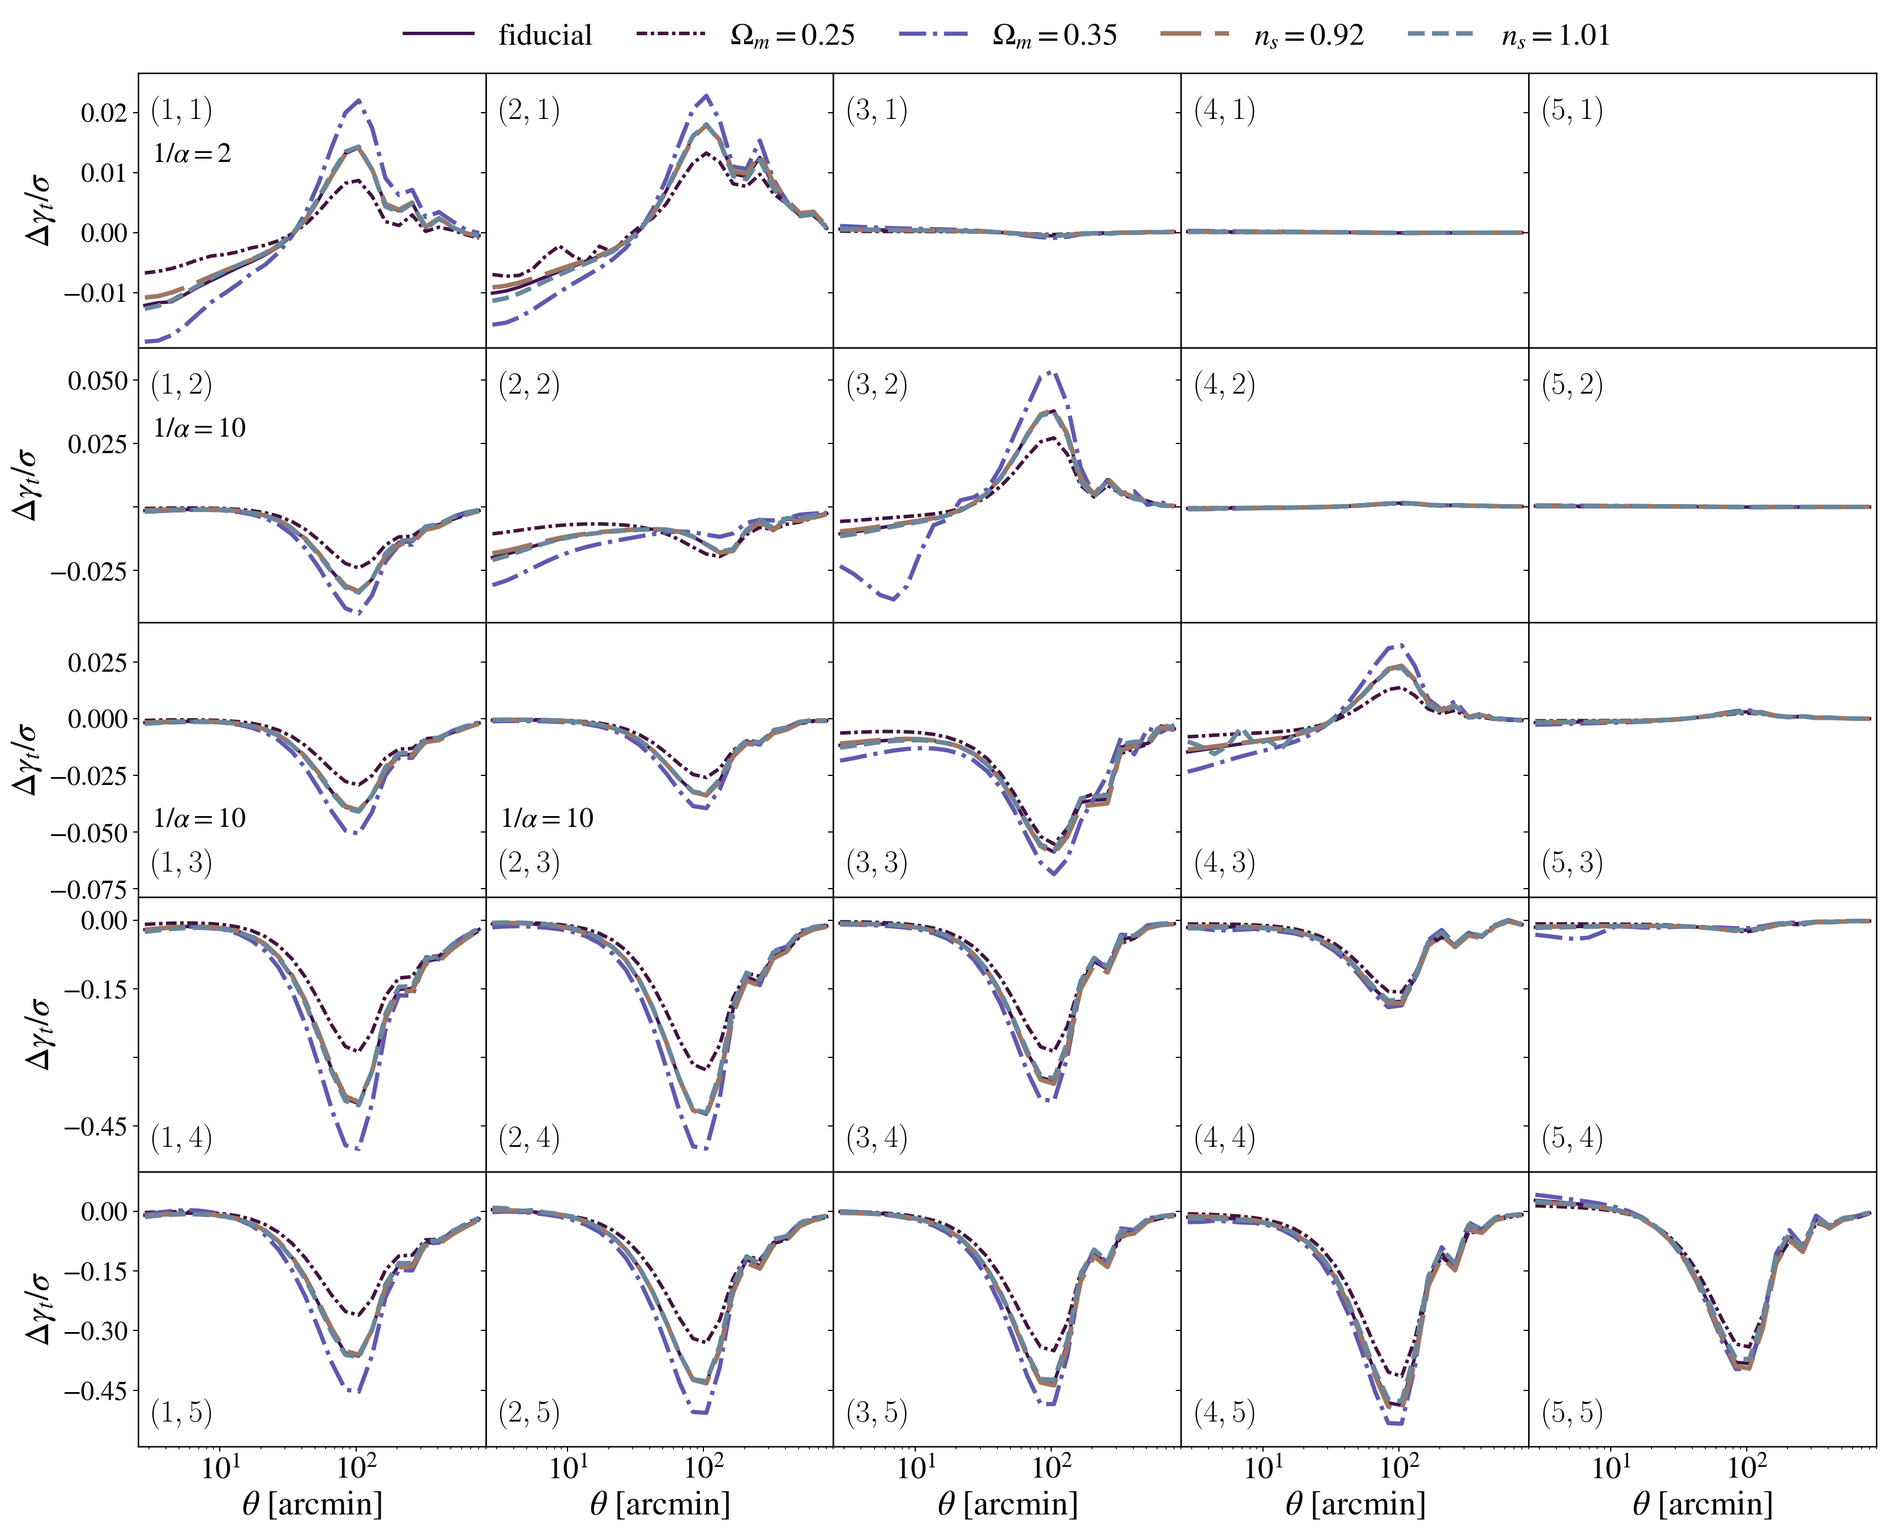
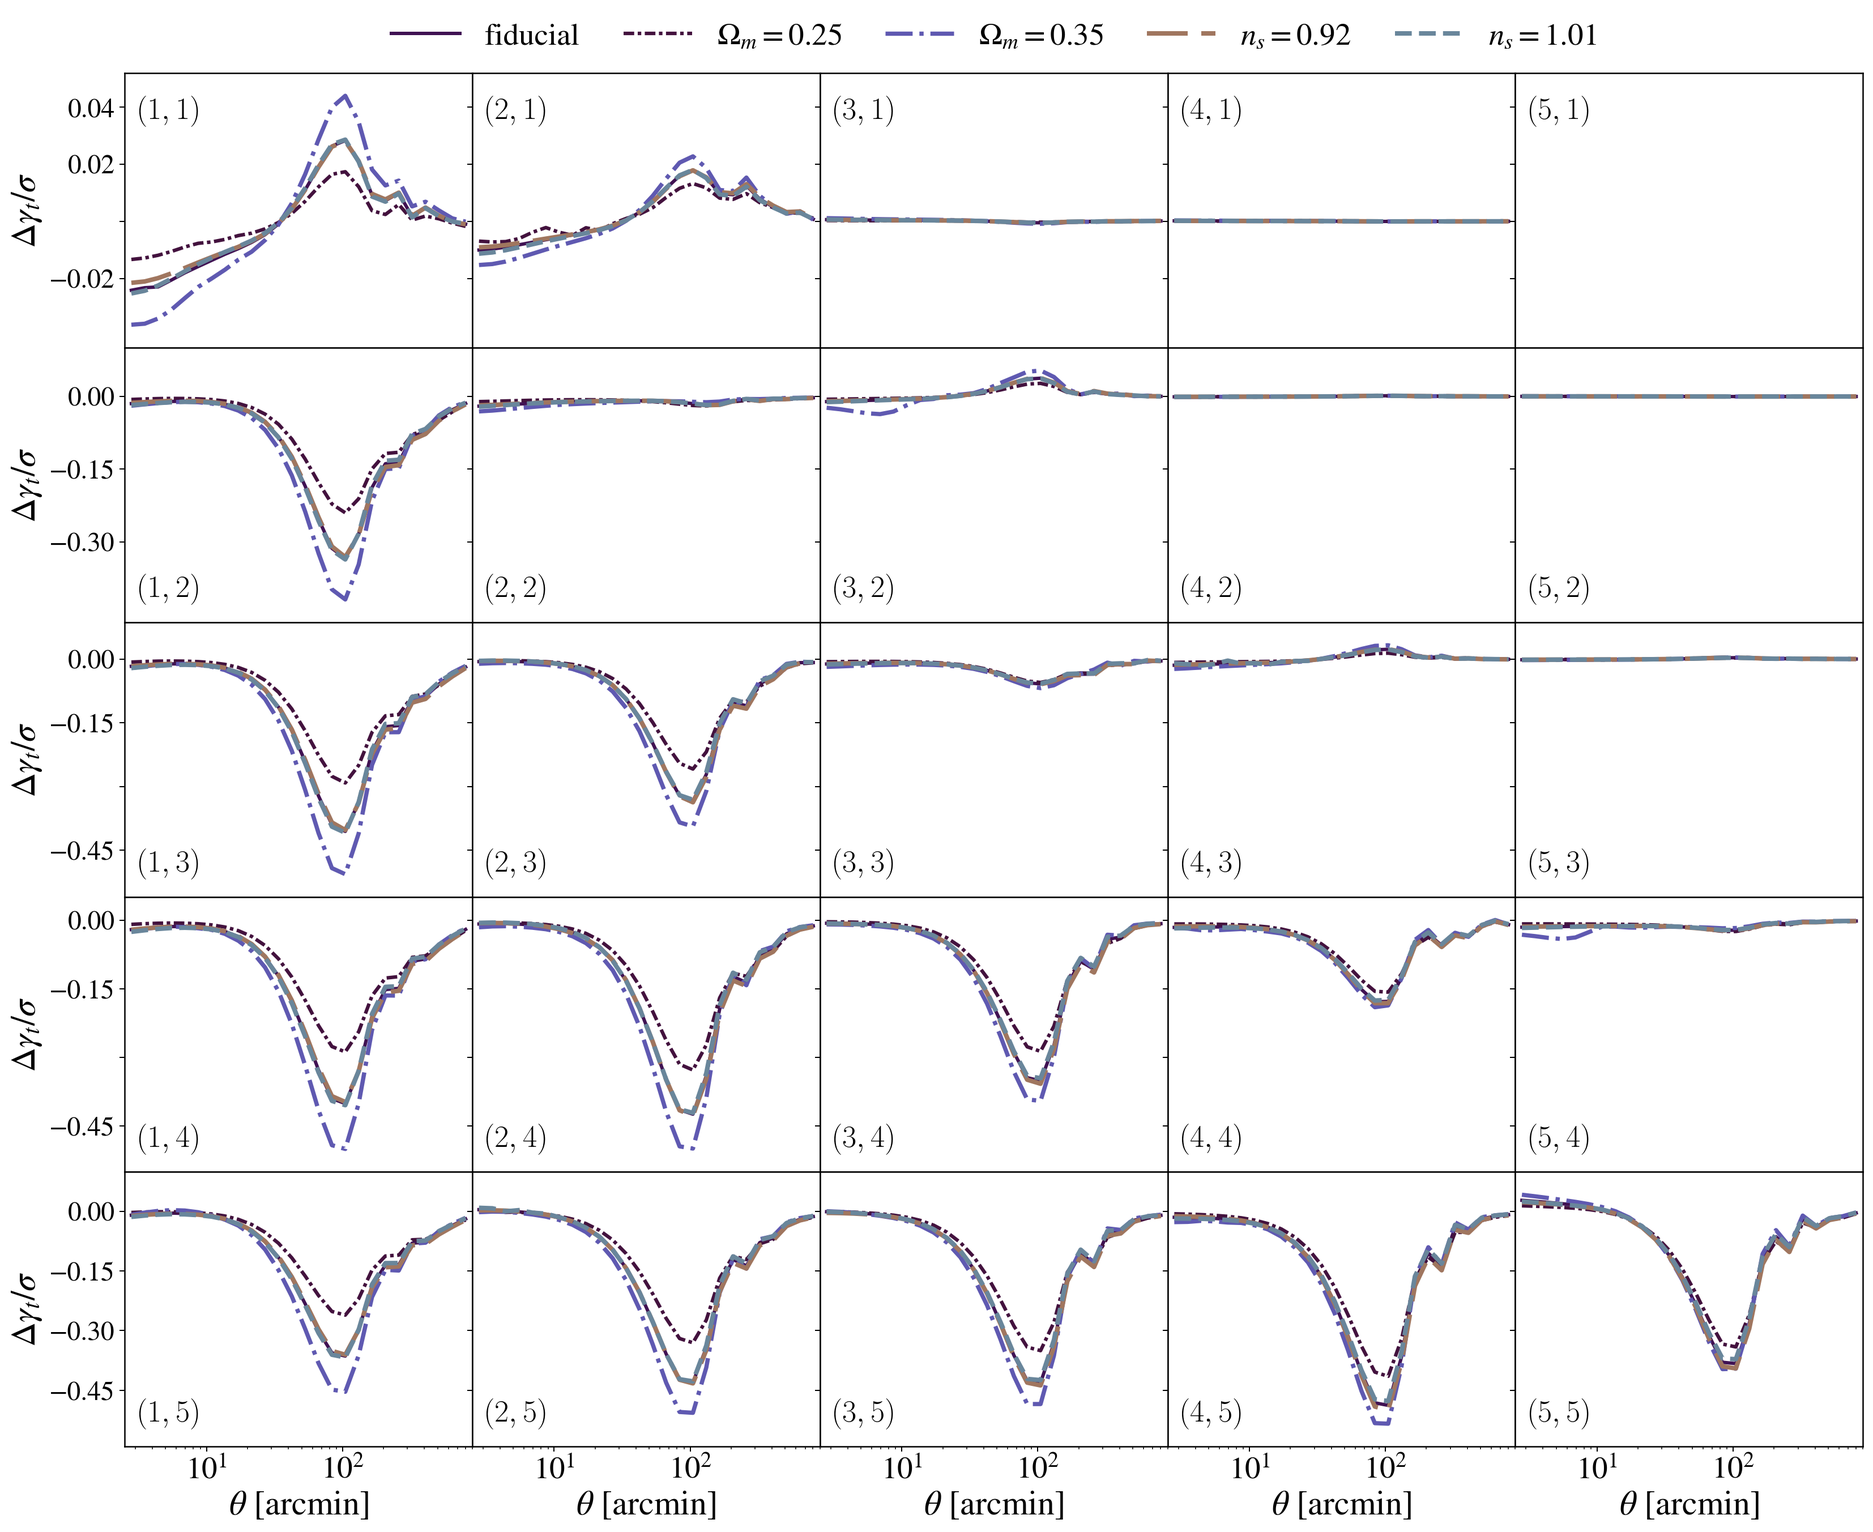
README study and figures: Fable review (writing and figures)
- contents list with anchors; reproduction as Step blocks with the
  assumptions and the run-folder facts
- figure captions: maxima over the five cosmologies and every plotted
  point (were fiducial-only); panel-label indexing stated; excluded
  panels explained
- summary bullets point to the findings; wording (CoCoA receives,
  cocoa_export.py / ccl_compute.py, data files read once per process)
- plots.py: the typical row spread ignores near-zero panels; no alpha on
  excluded pairs; y ticks kept 8% inside each row; prints each figure max

The physics review (part A) is still to be folded in.

diff --git a/cocoa_comparison/scripts/plots.py b/cocoa_comparison/scripts/plots.py
@@ -96,11 +96,14 @@ def row_ranges(R, rows):
   """One y-range per row of panels, fitted to the data (not symmetric):
   from the lowest to the highest value of the row's typical panels, 0
   included, 10% padding. Typical = the panels whose spread is within 2.5
-  times the row's median. Any panel that leaves its row's range gets
+  times the median spread of the panels holding at least 10% of the row's
+  largest. Any panel that leaves its row's range gets
   alpha = 1/f, f the first of the ladder that brings it inside.
   R: (ncurve, ntheta, n1, n2), 1 + (DESC-CCL - CoCoA)/sigma; rows: list of
   lists of (i, j)."""
   D = np.where(np.isfinite(R), R - 1.0, np.nan)
+  # a pair the project excludes arrives as zeros (unpack): no range, no alpha
+  D[:, :, np.all(R == 0, axis=(0, 1))] = np.nan
   with np.errstate(all="ignore"):
     lo_p, hi_p = np.nanmin(D, axis=(0, 1)), np.nanmax(D, axis=(0, 1))
   a = np.ones(lo_p.shape); lims = []
@@ -109,7 +112,11 @@ def row_ranges(R, rows):
     if not core:
       lims.append(None); continue
     spread = np.array([max(-lo_p[ij], hi_p[ij], 0.0) for ij in core])
-    keep = [ij for ij, x in zip(core, spread) if x <= 2.5*np.median(spread)] or core
+    # the typical spread: median over the panels with at least 10% of the
+    # row's largest (panels near zero, such as lens-behind-source gamma_t,
+    # do not set the range)
+    typical = np.median(spread[spread >= 0.1*spread.max()])
+    keep = [ij for ij, x in zip(core, spread) if x <= 2.5*typical] or core
     lo = min(0.0, min(lo_p[ij] for ij in keep)); hi = max(0.0, max(hi_p[ij] for ij in keep))
     if hi - lo <= 0: lo, hi = -0.1, 0.1
     pad = 0.10*(hi - lo); lo, hi = lo - pad, hi + pad
@@ -129,8 +136,13 @@ def set_rows(axrows, lims, ylabel):
   for axs, lim in zip(axrows, lims):
     axs[0].set_ylabel(ylabel, fontsize=24)
     if lim is None: continue
+    # ticks at least 8% inside the row's range, so the labels of adjacent
+    # (glued) rows never touch
+    span = lim[1] - lim[0]
+    ticks = [t for t in MaxNLocator(nbins=5).tick_values(lim[0], lim[1])
+             if lim[0] + 0.08*span <= t <= lim[1] - 0.08*span]
     for ax in axs:
-      ax.yaxis.set_major_locator(MaxNLocator(nbins=5, prune="both"))
+      ax.set_yticks(ticks)
       ax.tick_params(axis="y", labelsize=19)
       ax.tick_params(axis="x", labelsize=22)
       if ax.get_xlabel(): ax.set_xlabel(r"$\theta$ [arcmin]", fontsize=24)
@@ -202,7 +214,9 @@ def figures(p, curves, labels, tag):
   def prep(k, rows):
     R = np.array([u[k] for u in U])
     a, lims = row_ranges(R, rows)
-    print("  %s %s: 1/alpha != 1 in %d panels" % (p, "xip xim gammat w".split()[k], int((a != 1).sum())))
+    D = np.where(np.isfinite(R) & ~np.all(R == 0, axis=(0, 1))[None, None], np.abs(R - 1.0), np.nan)
+    print("  %s %s: max |Delta/sigma| %.3f; 1/alpha != 1 in %d panels"
+          % (p, "xip xim gammat w".split()[k], np.nanmax(D), int((a != 1).sum())))
     return [scaled(r, a) for r in R], a, lims
   for pm, nm, k in ((1, "xip", 0), (-1, "xim", 1)):
     rows = [[(i, j) for i in range(j + 1)] for j in range(S)]

diff --git a/README.md b/README.md
@@ -19,34 +19,36 @@ CoCoA `v5.02` and DESC-CCL compute the same real-space 3x2pt data vectors
 cosmologies. The differences are measured with each project's covariance.
 Scripts, tables and figures: [`cocoa_comparison/`](cocoa_comparison).
 
-## Summary
+Contents:
+1. [Summary](#ccl_summary)
+2. [Method](#ccl_method)
+3. [Results](#ccl_results)
+4. [Findings](#ccl_findings)
+5. [Figures](#ccl_figures)
+6. [What it took to run DESC-CCL](#ccl_run)
+7. [Reproduce](#ccl_reproduce)
+
+## Summary <a name="ccl_summary"></a>
 
 $\Delta\chi^2 = (d_{\rm CCL} - d_{\rm CoCoA})^{T} C^{-1} (d_{\rm CCL} - d_{\rm CoCoA})$,
 with the projects' masks (CoCoA's tests pass at $\Delta\chi^2 < 0.2$):
 
-| project | five cosmologies | fiducial: $\xi_\pm$ / $\gamma_t$ / $w(\theta)$ | after the diagnostic below |
+| project | five cosmologies | fiducial: $\xi_\pm$ / $\gamma_t$ / $w(\theta)$ | separable $P_{\rm lin}$ diagnostic |
 |---|---|---|---|
 | LSST-Y1 | 6.6 to 10.5 | 0.0013 / 7.29 / 6.26 | 0.21 |
 | Roman-Real | 0.17 to 0.29 | 0.058 / 0.27 / 0.096 | 0.062 |
 
-- Cosmic shear agrees in both projects. In LSST-Y1, $\Delta\chi^2 = 0.0013$.
-- $\gamma_t$ and $w(\theta)$ differ because of DESC-CCL's non-Limber method
-  (FKEM) when the linear growth depends on $k$. DESC-CCL subtracts a Limber
-  term computed with $P_{\rm lin}(k,z)$ and adds a non-Limber term computed
-  with $D^2(z)\,P_{\rm lin}(k,0)$; these do not cancel when $P_{\rm lin}(k,z)
-  \neq D^2(z)\,P_{\rm lin}(k,0)$. CoCoA `v5.02` uses $D^2(z)\,P_{\rm lin}(k,0)$
-  in both terms.
-- Diagnostic (not used in the figures): DESC-CCL given
-  $P_{\rm lin}(k,z) = D^2(z)\,P_{\rm lin}(k,0)$ agrees with CoCoA to
-  $\Delta\chi^2 = 0.21$ (LSST-Y1) and $0.062$ (Roman-Real).
+- Cosmic shear agrees in both projects.
+- $\gamma_t$ and $w(\theta)$ differ through DESC-CCL's non-Limber (FKEM)
+  term when the linear growth depends on $k$ ([finding 2](#ccl_findings)).
 - The modeling of this repository's DESC-CCL benchmark scripts differs from
-  CoCoA by $\Delta\chi^2 = 154$ (LSST-Y1) and $56$ (Roman-Real). RSD alone is
-  115 (LSST-Y1).
+  CoCoA by $\Delta\chi^2 = 154$ (LSST-Y1) and $56$ (Roman-Real)
+  ([finding 5](#ccl_findings)).
 
-## Method
+## Method <a name="ccl_method"></a>
 
 - **Same inputs.** DESC-CCL receives, through `pyccl.CosmologyCalculator`,
-  the tables cosmolike receives at the same point:
+  the tables CoCoA receives at the same point:
   - CAMB's linear and nonlinear $P(k,z)$ ($z \le 6$,
     $10^{-5} \le k \le 200\ {\rm Mpc}^{-1}$);
   - $\chi(z)$ and $H(z)$ (from $d\chi/dz$) to $z = 50$;
@@ -58,8 +60,7 @@ with the projects' masks (CoCoA's tests pass at $\Delta\chi^2 < 0.2$):
   No Boltzmann or background difference enters.
 - **DESC-CCL build.** pyccl from
   [LSSTDESC/CCL PR #1296](https://github.com/LSSTDESC/CCL/pull/1296) (commit
-  `647ad4a`). It provides full-sky $\xi_\pm$ and exact bin averaging;
-  CCL 3.3 refuses full-sky $\xi_\pm$ (error 1040).
+  `647ad4a`): full-sky $\xi_\pm$ and exact bin averaging.
 - **Layout.**
   - Bins: CoCoA's log $\theta$ bins (LSST-Y1: 26 bins from 2.5' to 900';
     Roman-Real: 15 bins from 2.5' to 250').
@@ -97,7 +98,7 @@ $\gamma_t$ lens tracer has it off to match CoCoA's model. Switching it on
 moves DESC-CCL's $\gamma_t$ by $\Delta\chi^2 = 0.36$ (LSST-Y1) and $0.076$
 (Roman-Real).
 
-## Results
+## Results <a name="ccl_results"></a>
 
 DESC-CCL (reference settings) vs CoCoA:
 
@@ -111,7 +112,8 @@ DESC-CCL (reference settings) vs CoCoA:
 
 Per-probe columns zero the other probes' entries of $d$; the cross-covariance
 makes them not add up to the 3x2pt value. In Roman-Real, the pair lens 7 -
-source 2 is left out (13 kept points; see failures below).
+source 2 (0-indexed) is left out: 13 points the mask keeps
+([finding 4](#ccl_findings)).
 
 Fiducial cosmology, one change at a time (3x2pt $\Delta\chi^2$):
 
@@ -150,7 +152,7 @@ largest):
 | Roman-Real | $C_{gs}$ | 3.0e-4 / 1.9e-3 | 3.6e-4 / 1.9e-3 | 3.3e-4 / 1.8e-3 |
 | Roman-Real | $C_{gg}$ | 9.3e-4 / 4.3e-3 | 4.2e-5 / 1.0e-3 | 2.7e-5 / 3.0e-3 |
 
-## Findings
+## Findings <a name="ccl_findings"></a>
 
 1. **Limber layer.** The codes agree in harmonic space (table above) and in
    real space with both codes in Limber ($\Delta\chi^2$ 0.16 and 0.031).
@@ -174,13 +176,15 @@ largest):
    while DESC-CCL mixes the two forms. Diagnostic: DESC-CCL given the
    separable table lowers the fiducial $\Delta\chi^2$ from 8.76 to 0.21
    (LSST-Y1, $\gamma_t$ 7.29 to 0.064, $w$ 6.26 to 0.16) and from 0.228 to
-   0.062 (Roman-Real). The non-Limber effect on LSST-Y1 $\gamma_t$ is 1.98
-   in CoCoA, 11.2 in DESC-CCL and 2.06 in DESC-CCL with the separable table.
+   0.062 (Roman-Real). The $\Delta\chi^2$ of the non-Limber effect on
+   LSST-Y1 $\gamma_t$ (non-Limber vs Limber in the same code) is 1.98 in
+   CoCoA, 11.2 in DESC-CCL and 2.06 in DESC-CCL with the separable table.
 3. **DESC-CCL numerics.** DESC-CCL's default FKEM sampling (`fkem_Nchi`
    default, 500 log $\ell$) is 0.34 from the converged run in LSST-Y1 (in
    $w(\theta)$) and 0.0005 in Roman-Real.
 4. **DESC-CCL transform failures.**
-   - The pairs: LSST-Y1 lens 4 - source 0 and Roman-Real lens 7 - source 2.
+   - The pairs (0-indexed): LSST-Y1 lens 4 - source 0 and Roman-Real lens
+     7 - source 2 (panel (8, 3) of the Roman-Real $\gamma_t$ figure).
      In both, the lens bin lies behind the source bin, so the Limber
      $C_{gs}$ is zero at every $\ell$. FKEM gives a nonzero $C_{gs}$ below
      $\ell = 150$, and the Limber part above is zero.
@@ -190,13 +194,13 @@ largest):
      $\ell_{\max}$ (`ccl_f1d_extrap_logx_logy` in `ccl_correlation.c`),
      which needs positive values at the end.
    - Both pairs are left out of the comparison. CoCoA's mask removes the
-     LSST-Y1 pair; 13 kept Roman-Real points are left out.
+     LSST-Y1 pair; in Roman-Real, 13 points the mask keeps are left out.
 5. **Modeling choices** (one-change table): RSD is 115 (LSST-Y1, in
    $w(\theta)$); $C_{gs}$ in Limber 9.2; values at bin centers instead of
    bin averages 10.3 (LSST-Y1) and 22.8 (Roman-Real, whose bins are wider:
    $\Delta\ln\theta = 0.31$ against 0.23).
 
-## Figures
+## Figures <a name="ccl_figures"></a>
 
 Each panel shows $(d_{\rm CCL} - d_{\rm CoCoA})/\sigma$ at the same
 cosmology, with $\sigma = \sqrt{C_{ii}}$ from the project's covariance: 1 is a
@@ -204,78 +208,102 @@ one-sigma difference. One curve per cosmology. Each row of panels has its own
 y-range. A panel marked $1/\alpha = f$ shows the difference divided by $f$:
 the difference is $f$ times what the axis reads. LSST-Y1 shows every
 $\theta$; the $\Delta\chi^2$ above uses the mask. Roman-Real leaves the
-masked points blank.
+masked points blank. Panel labels: $\gamma_t$ (lens, source) and
+$w(\theta)$ (lens) count from 1; $\xi_\pm$ (bin $i$, bin $j$) count from 0.
+The maxima below are over the five cosmologies and every plotted point.
 
 **LSST-Y1, $\gamma_t$.** DESC-CCL's FKEM offset from finding 2 reaches
-$-0.5\sigma$ near 100'. The same shape appears at every cosmology.
+$-0.53\sigma$ near 100'. The same shape appears at every cosmology.
 
 ![LSST-Y1 gamma_t](cocoa_comparison/figures/lsst_y1_cosmologies_gammat.png)
 
-**LSST-Y1, $w(\theta)$.** The same FKEM offset: $-0.5\sigma$ to $-1.3\sigma$
-per point below 100' (at most $0.84\sigma$ on the points the mask keeps).
+**LSST-Y1, $w(\theta)$.** The same FKEM offset: $-0.4\sigma$ to $-1.39\sigma$
+per point below 100' (at most $0.89\sigma$ on the points the mask keeps).
 
 ![LSST-Y1 w](cocoa_comparison/figures/lsst_y1_cosmologies_w.png)
 
-**LSST-Y1, $\xi_+$ and $\xi_-$.** At most $0.01\sigma$.
+**LSST-Y1, $\xi_+$ and $\xi_-$.** At most $0.014\sigma$ ($\xi_+$) and
+$0.010\sigma$ ($\xi_-$).
 
 ![LSST-Y1 xi+](cocoa_comparison/figures/lsst_y1_cosmologies_xip.png)
 ![LSST-Y1 xi-](cocoa_comparison/figures/lsst_y1_cosmologies_xim.png)
 
-**Roman-Real, $\gamma_t$.** At most $0.03\sigma$. Pair lens 8 - source 3
-(1-indexed) is blank: DESC-CCL's transform fails (finding 4).
+**Roman-Real, $\gamma_t$.** At most $0.045\sigma$. Panels marked
+"excluded" are CoCoA's $\gamma_t$ exclusions (Method, Layout); panel (8, 3)
+is blank because DESC-CCL's transform fails ([finding 4](#ccl_findings)).
 
 ![Roman-Real gamma_t](cocoa_comparison/figures/roman_real_cosmologies_gammat.png)
 
-**Roman-Real, $w(\theta)$.** At most $0.09\sigma$.
+**Roman-Real, $w(\theta)$.** At most $0.088\sigma$.
 
 ![Roman-Real w](cocoa_comparison/figures/roman_real_cosmologies_w.png)
 
-**Roman-Real, $\xi_+$ and $\xi_-$.** At most $0.04\sigma$.
+**Roman-Real, $\xi_+$ and $\xi_-$.** At most $0.050\sigma$ ($\xi_+$) and
+$0.059\sigma$ ($\xi_-$).
 
 ![Roman-Real xi+](cocoa_comparison/figures/roman_real_cosmologies_xip.png)
 ![Roman-Real xi-](cocoa_comparison/figures/roman_real_cosmologies_xim.png)
 
-## What it took to run DESC-CCL
+## What it took to run DESC-CCL <a name="ccl_run"></a>
 
 | symptom | cause | resolution |
 |---|---|---|
 | `CCLError` 1040 for full-sky $\xi_\pm$ | CCL 3.3 has no full-sky $\xi_\pm$ | pyccl built from PR #1296 (CMake against the conda env's GSL and FFTW; SWIG from conda-forge) |
 | `AttributeError: np.trapz` in FAST-PT 4.0.0 | numpy 2.4 removed `np.trapz` | `np.trapz = np.trapezoid` before importing pyccl (no package changed) |
-| `ccl_angular_cls_limber(): integration error`, Roman-Real lens bins 6 and 7 with RSD | the harness's growth table ended at $z = 6$ | growth from CAMB to $z = 49$ |
-| same error, lens bin 7, $\ell = 2$ only | the Limber RSD kernel evaluates the background at $\chi_{\ell+1} = \chi\,(\ell + 3/2)/(\ell + 1/2)$, $1.4\chi$ at $\ell = 2$ ($z \approx 14$ for $z = 4$); the harness's $\chi(z)$ table ended at $z = 10$ | CoCoA's $\chi(z)$ to $z = 50$ |
+| `ccl_angular_cls_limber(): integration error`, Roman-Real lens bins 6 and 7 with RSD | the growth table of `cocoa_export.py` ended at $z = 6$ | growth from CAMB to $z = 49$ |
+| same error, lens bin 7, $\ell = 2$ only | the Limber RSD kernel evaluates the background at $\chi_{\ell+1} = \chi\,(\ell + 3/2)/(\ell + 1/2)$, $1.4\chi$ at $\ell = 2$ ($z \approx 14$ for $z = 4$); `ccl_compute.py` cut CoCoA's $\chi(z)$ table at $z = 10$ | CoCoA's $\chi(z)$ to $z = 50$ |
 | $H(z)$ off by $3\times10^{-4}$ above $z = 3$ | `np.gradient` of $\chi(z)$ where the $z$ grid coarsens | cubic-spline derivative (agrees with CCL's own $H(z)$ to $10^{-5}$) |
 | Eisenstein-Hu cosmology needs $\sigma_8$ | the benchmark modeling uses DESC-CCL's own $P(k)$ | `ccl.sigma8` of the CAMB-table cosmology |
 | `correlation` fails for two $\gamma_t$ pairs | finding 4 | not worked around: pairs left out |
 
 CoCoA side:
-- `init_data_real` runs once per process, so the full vector (a scratch
-  dataset with `ones.mask`) and the masked covariance come from separate
-  runs;
+- cosmolike reads the data files once per process, so the full vector (a
+  scratch dataset with `ones.mask`) and the masked covariance come from
+  separate runs;
 - the Roman-Real covariance is not positive definite with every point, so
   Roman-Real uses its mask;
 - Cobaya returns $\chi(z)$ only at requested redshifts, so it is read on the
   likelihood's $z$ grid.
 
-## Reproduce
+## Reproduce <a name="ccl_reproduce"></a>
+
+We assume users run the commands from the CCL-benchmark root folder, have a
+Cocoa installation with the lsst_y1 and roman_real projects and their data,
+a conda environment `ccl` with pyccl's dependencies, and a pyccl build of
+[LSSTDESC/CCL PR #1296](https://github.com/LSSTDESC/CCL/pull/1296) (the
+folder that contains its `pyccl` package). `<run folder>` is the same path in
+every step.
+
+**Step :one:**: Export CoCoA's data vectors, tables and covariances (Conda
+cocoa environment, from the `Cocoa/` folder: `source start_cocoa.sh`
+first, then come back to the CCL-benchmark root)
 
 ```bash
-# 1. CoCoA exports: cocoa environment, start_cocoa.sh sourced
 bash cocoa_comparison/run_cocoa.sh <run folder>
 ```
 
-```bash
-# 2. DESC-CCL runs: ccl conda environment and the PR #1296 build
-CCL_PYTHON=<ccl env python> CCL_PR=<PR build> COCOA_ROOTDIR=<Cocoa> bash cocoa_comparison/run_ccl.sh <run folder>
-```
+**Step :two:**: Compute the DESC-CCL data vectors (`CCL_PYTHON` is the python
+of the `ccl` environment; `CCL_PR` the PR #1296 build folder; `COCOA_ROOTDIR`
+the `Cocoa/` folder)
 
 ```bash
-# 3. tables (results.md, results.json) and figures
+CCL_PYTHON=<ccl env python> CCL_PR=<PR build folder> COCOA_ROOTDIR=<Cocoa folder> bash cocoa_comparison/run_ccl.sh <run folder>
+```
+
+**Step :three:**: Write the tables (any python with numpy)
+
+```bash
 CMP_WORK=<run folder> python cocoa_comparison/scripts/results.py
 CMP_WORK=<run folder> python cocoa_comparison/scripts/harmonic.py
+```
+
+**Step :four:**: Draw the figures (Conda cocoa environment with
+`start_cocoa.sh` sourced: `plots.py` uses cosmolike_core's
+`plot_datavectors.py`)
+
+```bash
 CMP_WORK=<run folder> python cocoa_comparison/scripts/plots.py cocoa_comparison/figures
 ```
 
-Run `plots.py` in the cocoa environment: it uses cosmolike_core's
-`plot_datavectors.py`. The diagnostics behind findings 2 and 4 are
-`scripts/diag_fkem_offset.py`, `scripts/diag_l7s2.py` and
-`scripts/diag_growth.py`.
+The diagnostics behind findings 2 and 4 are `scripts/diag_fkem_offset.py`,
+`scripts/diag_growth.py` and `scripts/diag_l7s2.py` (usage in each file).
